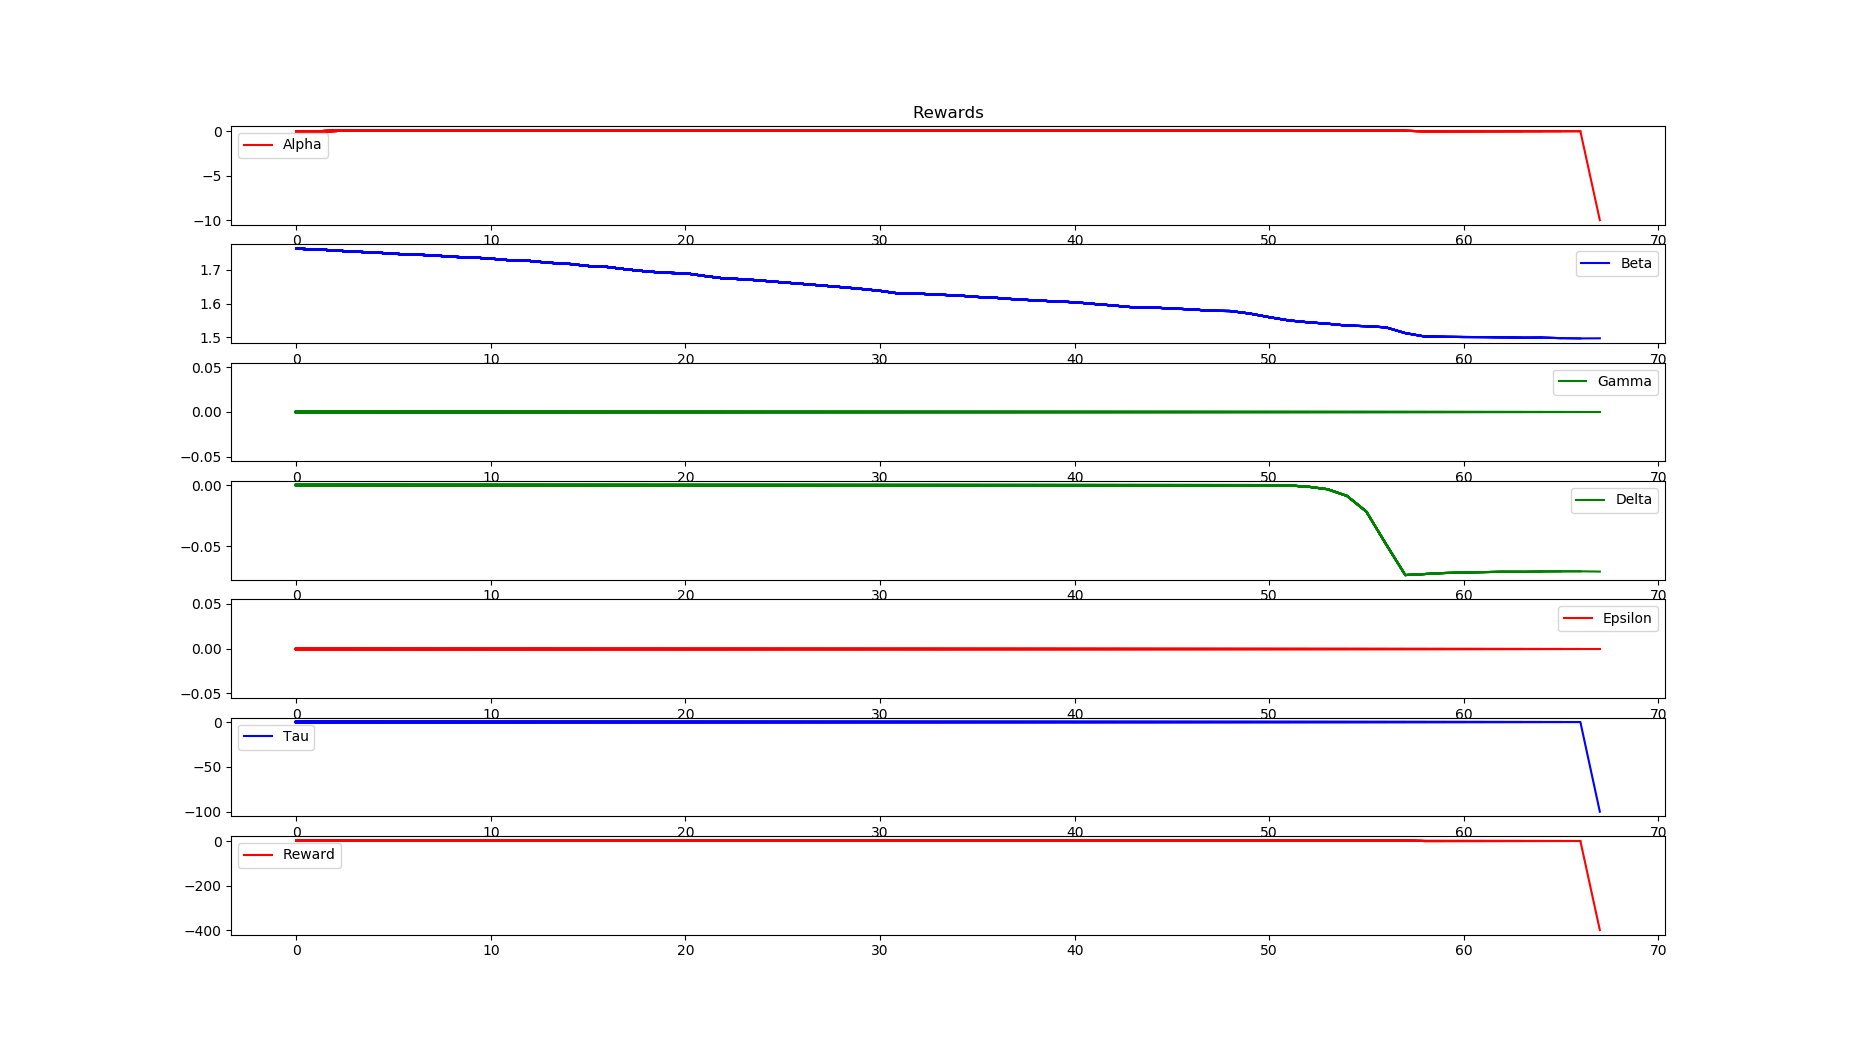
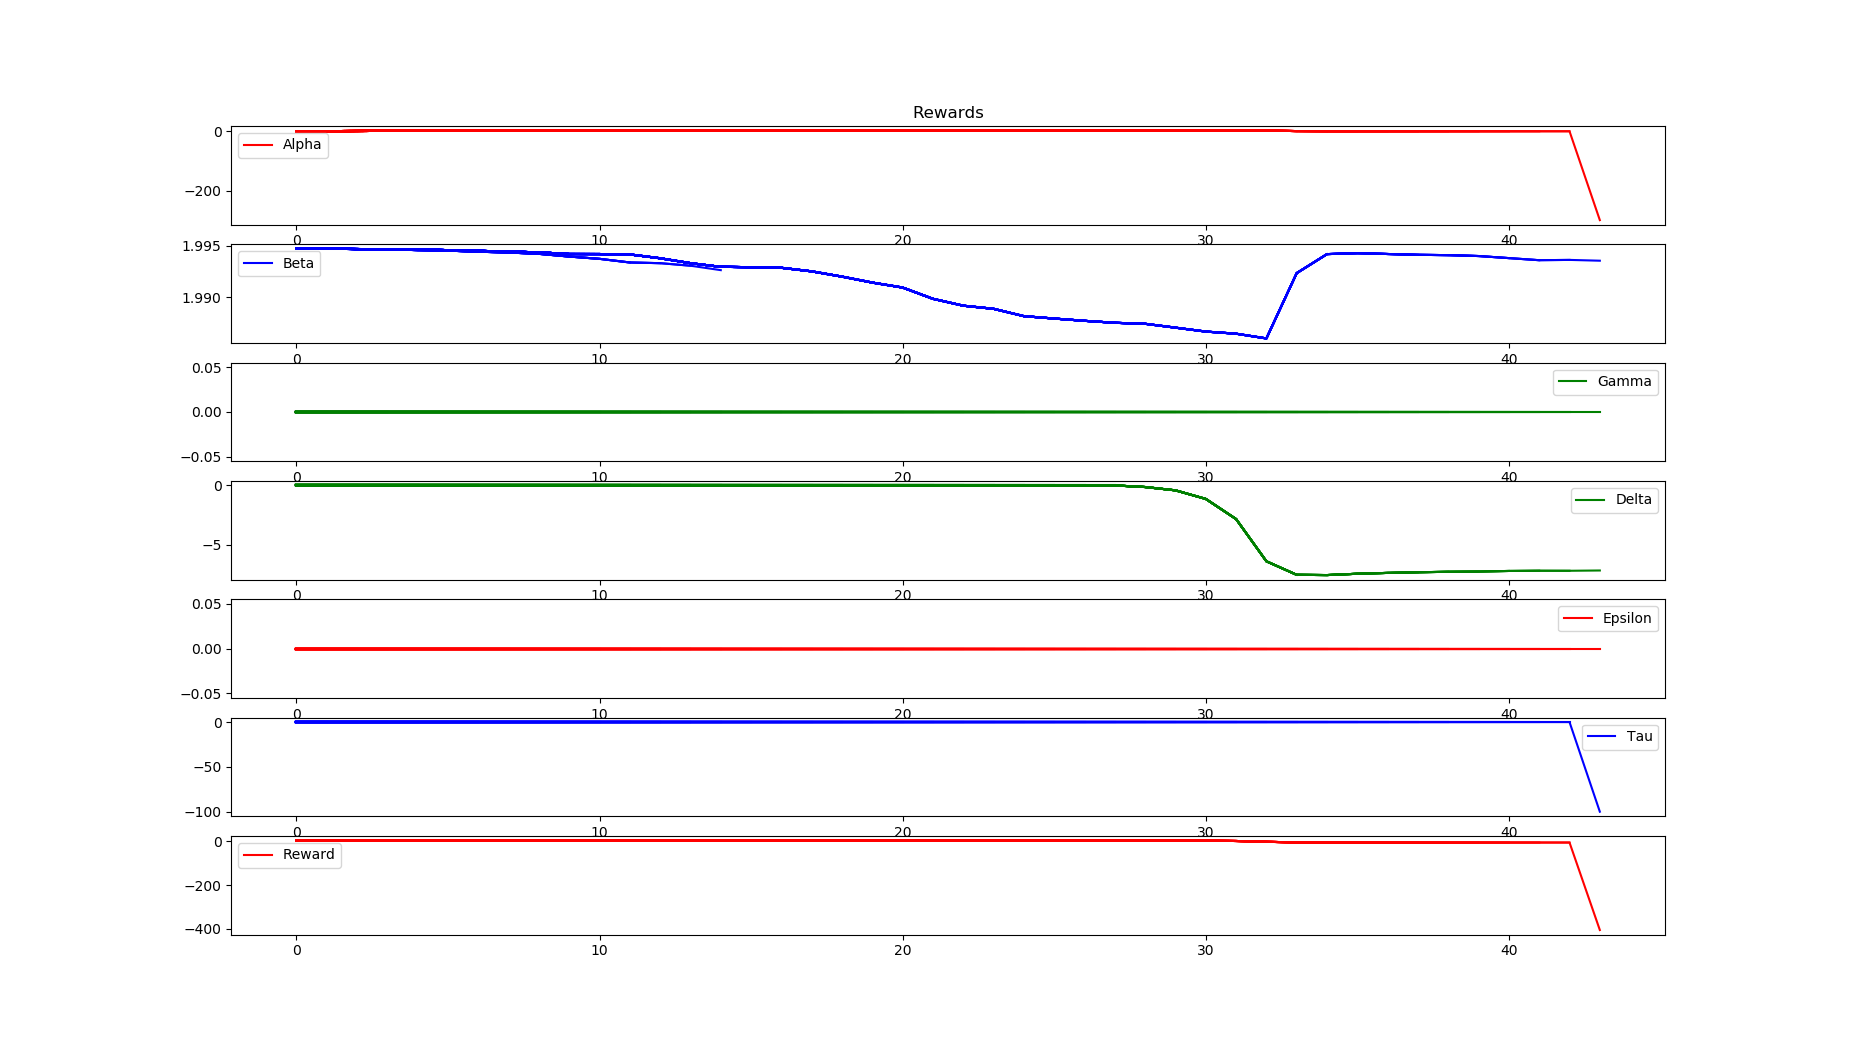
fix: reward weights fixed for gamma, delta, epsilon

diff --git a/GymEnv.py b/GymEnv.py
@@ -118,9 +118,9 @@ class RacecarZEDGymEnv(gym.Env):
     self._w0Param = 1
     self._w1Param = 30
     self._w2Param = 1
-    self._w3Param = 1
-    self._w4Param = 1
-    self._w5Param = 1
+    self._w3Param = 10
+    self._w4Param = 100
+    self._w5Param = 10
     self._w6Param = 1
     self._velocityParam = 5
     self.rewards = []
@@ -200,9 +200,9 @@ class RacecarZEDGymEnv(gym.Env):
     self.slider_id0 = self._p.addUserDebugParameter("reward (w0)", 0, 10, 1)
     self.slider_id1 = self._p.addUserDebugParameter("alpha (w1)", 0, 100, 30)
     self.slider_id2 = self._p.addUserDebugParameter("beta (w2)", 0, 10, 1)
-    self.slider_id3 = self._p.addUserDebugParameter("gamma (w3)", 0, 10, 1)
-    self.slider_id4 = self._p.addUserDebugParameter("delta (w4)", 0, 10, 1)
-    self.slider_id5 = self._p.addUserDebugParameter("epsilon (w5)", 0, 10, 1)
+    self.slider_id3 = self._p.addUserDebugParameter("gamma (w3)", 0, 10, 10)
+    self.slider_id4 = self._p.addUserDebugParameter("delta (w4)", 0, 100, 100)
+    self.slider_id5 = self._p.addUserDebugParameter("epsilon (w5)", 0, 10, 10)
     self.slider_id6 = self._p.addUserDebugParameter("tau (w6)", 0, 10, 1)
     self.slider_vel = self._p.addUserDebugParameter("velocity (moving obj)", 0, 10, 5)
 
